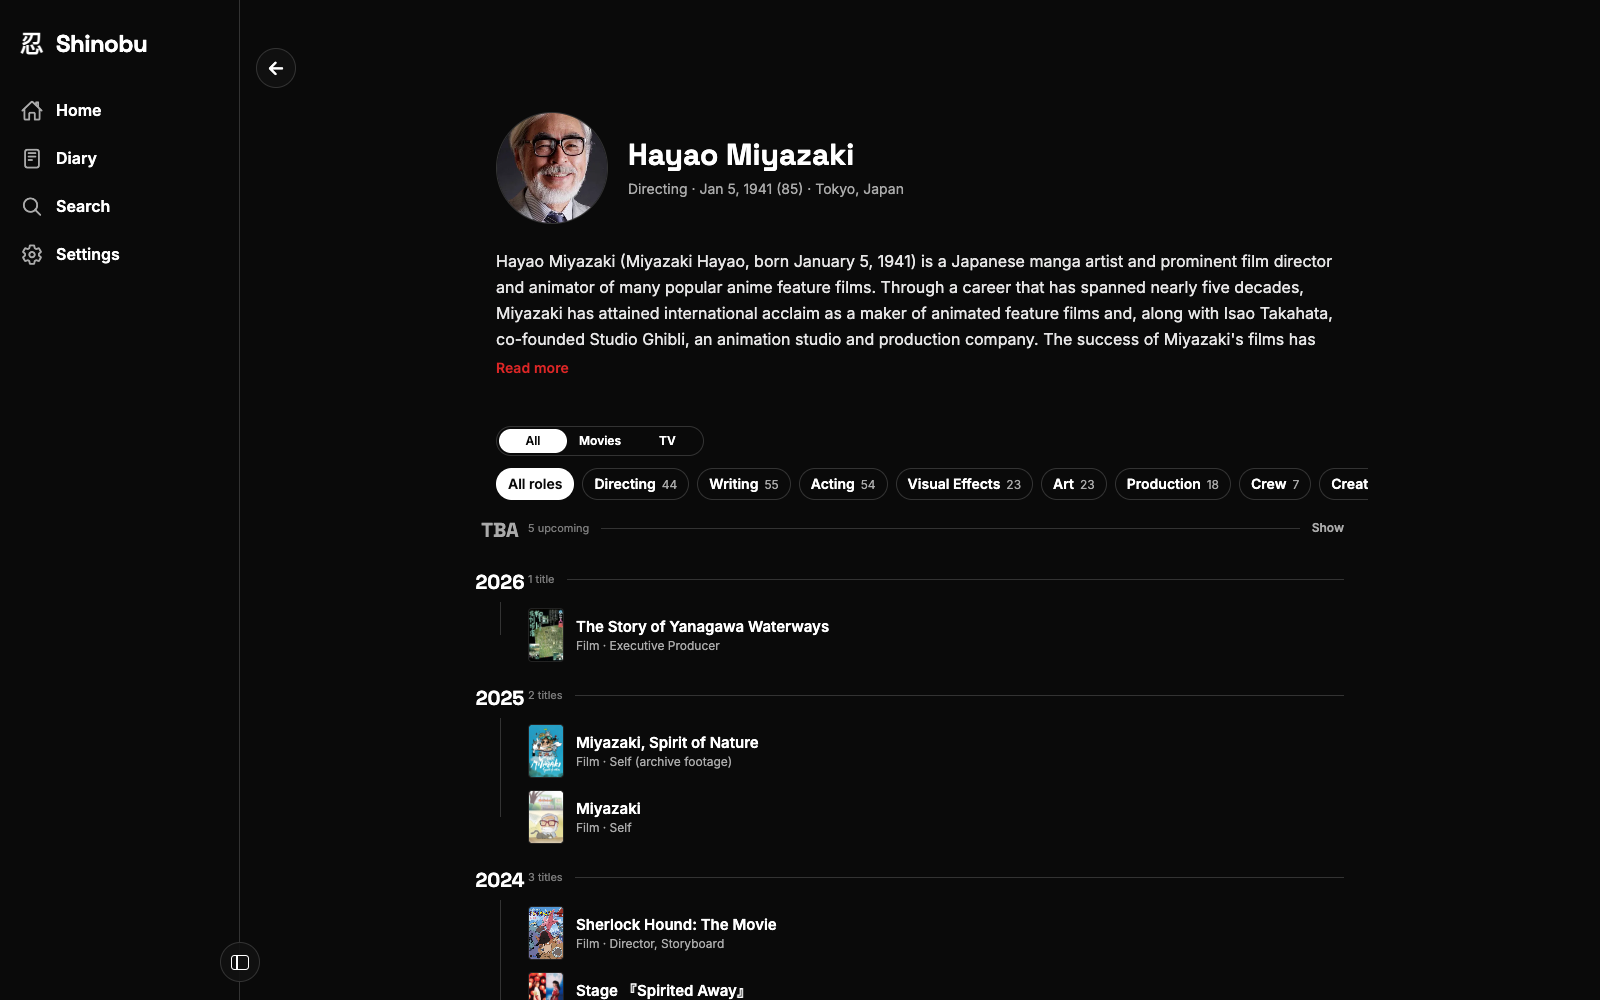
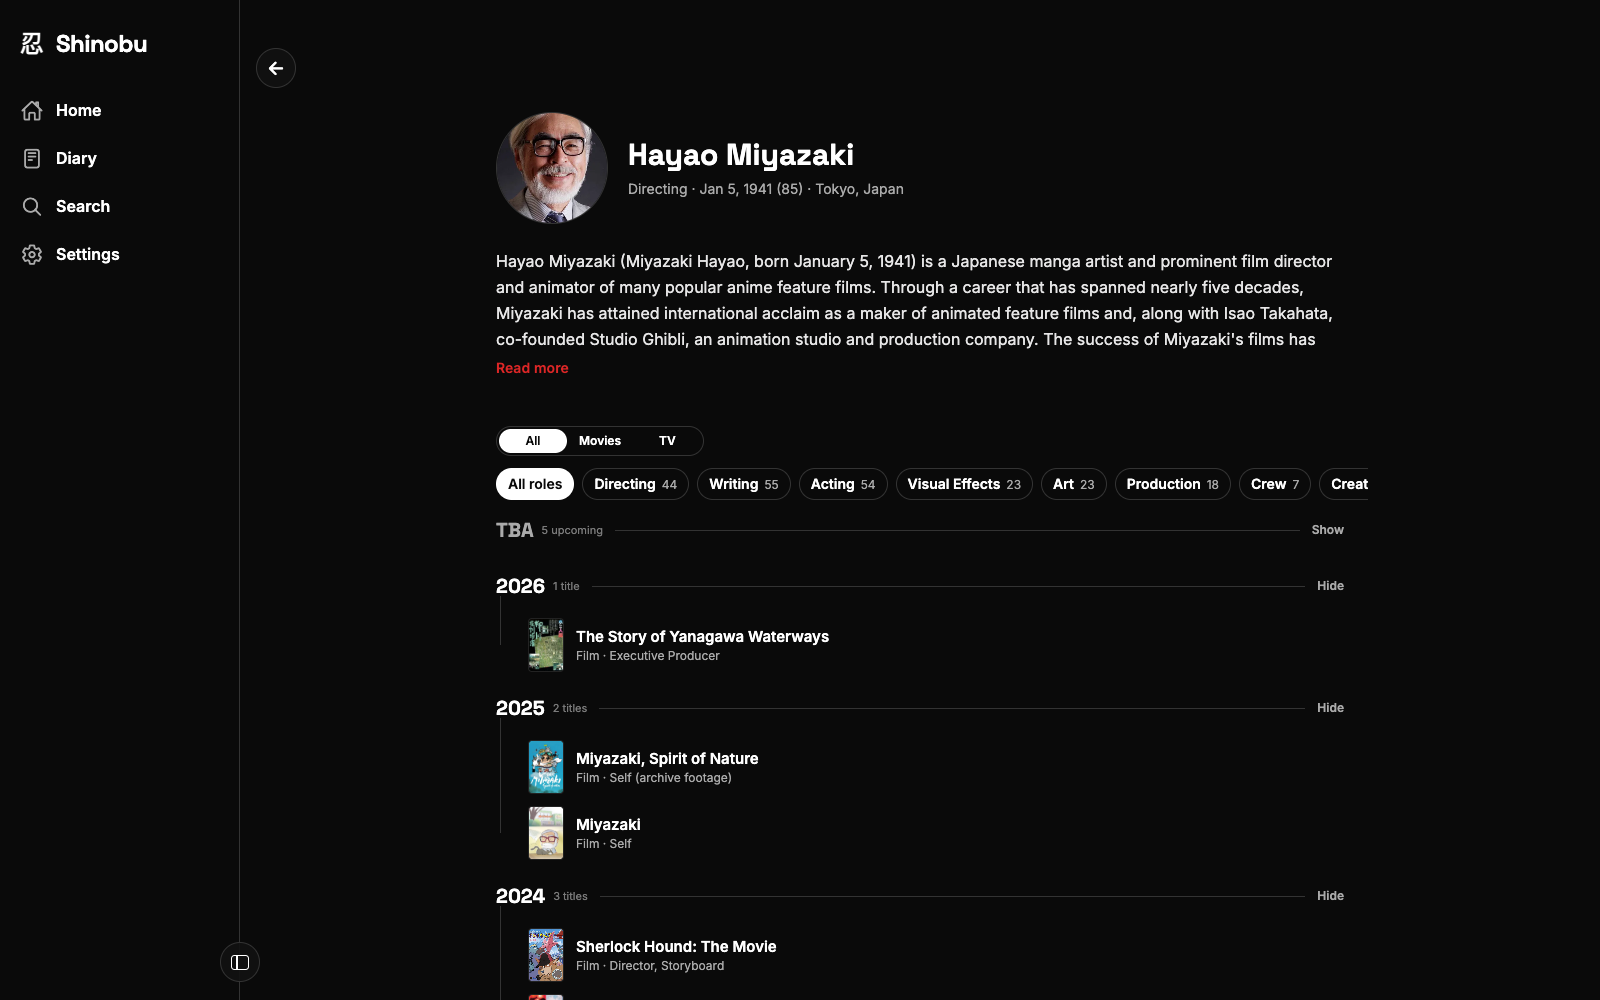
design: timeline heads share the page gutter and every year folds
Year heads sat in the rail column while the hero, pill and chips sat on
the 24px gutter, so nothing above a poster shared a left edge. Heads are
now one centred row on that gutter: year, count, hairline, Show/Hide.
Every head folds the way the upcoming one did; only upcoming starts
folded.

diff --git a/src/features/credit-timeline/credit-timeline.tsx b/src/features/credit-timeline/credit-timeline.tsx
@@ -20,6 +20,7 @@ import type { NormalizedMediaItem } from '@/types/media';
 import {
   roleCounts,
   timelineRows,
+  UPCOMING_HEAD,
   type Credit,
   type Filmography,
   type FormatFilter,
@@ -27,9 +28,9 @@ import {
 
 /**
  * The diary's rail, verbatim: a fixed gutter every row shares with one
- * hairline down it, the year sitting *in* the gutter at the top of its run the
- * way the diary's date does. Two surfaces that list titles down a rail should
- * not have two rails.
+ * hairline down it. Two surfaces that list titles down a rail should not
+ * have two rails. Heads sit on the page gutter (`px-6`) with the hero and
+ * the controls, so every left edge above a poster is the same edge.
  */
 const RAIL_W = 'w-14';
 const RAIL_LINE = 'left-7';
@@ -37,8 +38,10 @@ const RAIL_LINE = 'left-7';
 const ROW_BODY = 'flex-1 py-1.5 pr-6';
 const POSTER = 'w-9 h-[54px] rounded';
 const ROW_HEIGHT = 66;
-/** A `text-xl leading-none` numeral under `pt-5` ends at 40px; the rail resumes there. */
-const HEAD_LINE_TOP = 'top-10';
+/** The head row is `pt-5` + a 20px `text-xl leading-none` year + `pb-4`. */
+const HEAD = 'flex-row items-center px-6 pt-5 pb-4 relative';
+/** The rail resumes under the year, from 40px down. */
+const HEAD_LINE = cn('absolute w-px bg-border top-10 bottom-0', RAIL_LINE);
 
 /** "All" first, as on the seasons explorer — it is the shape the page opens in. */
 const FORMAT_OPTIONS = [
@@ -126,11 +129,10 @@ function RoleChip({
 }
 
 /**
- * A run's head: the year in the gutter, its title count and a hairline
- * reaching right. The upcoming head is the one with a control — the whole row
- * toggles the fold, with Show/Hide where the diary's chevron sits — and it is
- * muted throughout: unreleased work is a footnote to a filmography, not its
- * headline.
+ * A run's head: the year, its title count, a hairline reaching right and
+ * Show/Hide where the diary's chevron sits; the whole row toggles the fold.
+ * The upcoming head is muted throughout: unreleased work is a footnote to a
+ * filmography, not its headline.
  */
 function TimelineHead({
   year,
@@ -144,46 +146,28 @@ function TimelineHead({
   onToggle: () => void;
 }) {
   const upcoming = year == null;
-  const body = (
-    <>
-      <View className={cn(RAIL_W, 'items-center relative')}>
-        <Text
-          className={cn(
-            'font-display text-xl leading-none',
-            upcoming ? 'text-muted' : 'text-foreground',
-          )}
-        >
-          {upcoming ? 'TBA' : year}
-        </Text>
-        {open && (
-          <View className={cn('absolute w-px bg-border bottom-0', HEAD_LINE_TOP, RAIL_LINE)} />
-        )}
-      </View>
-      <View className="flex-1 flex-row items-center pr-6 pb-4">
-        <Text className="text-muted/70 font-sans text-[11px] mr-3">
-          {count} {upcoming ? 'upcoming' : count === 1 ? 'title' : 'titles'}
-        </Text>
-        <View className="flex-1 h-px bg-border" />
-        {upcoming && (
-          <Text className="text-muted font-sans-semibold text-xs ml-3">
-            {open ? 'Hide' : 'Show'}
-          </Text>
-        )}
-      </View>
-    </>
-  );
-
-  if (!upcoming) return <View className="flex-row pt-5">{body}</View>;
+  const label = `${count} ${upcoming ? 'upcoming' : count === 1 ? 'title' : 'titles'}`;
   return (
     <PresstableOpacity
-      accessibilityHint={open ? 'Hides upcoming titles' : 'Shows upcoming titles'}
-      accessibilityLabel={`${count} upcoming`}
+      accessibilityHint={open ? 'Hides these titles' : 'Shows these titles'}
+      accessibilityLabel={`${upcoming ? 'Upcoming' : year}, ${label}`}
       accessibilityRole="button"
       accessibilityState={{ expanded: open }}
-      className="flex-row pt-5"
+      className={HEAD}
       onPress={onToggle}
     >
-      {body}
+      <Text
+        className={cn(
+          'font-display text-xl leading-none',
+          upcoming ? 'text-muted' : 'text-foreground',
+        )}
+      >
+        {upcoming ? 'TBA' : year}
+      </Text>
+      <Text className="text-muted/70 font-sans text-[11px] ml-2 mr-3">{label}</Text>
+      <View className="flex-1 h-px bg-border" />
+      <Text className="text-muted font-sans-semibold text-xs ml-3">{open ? 'Hide' : 'Show'}</Text>
+      {open && <View className={HEAD_LINE} />}
     </PresstableOpacity>
   );
 }
@@ -283,13 +267,19 @@ export function CreditTimeline({
   const enter = usePageEnterStyle();
   const [format, setFormat] = useState<FormatFilter>('ALL');
   const [role, setRole] = useState<string | null>(null);
-  const [showUpcoming, setShowUpcoming] = useState(false);
+  // Only unreleased work starts folded.
+  const [folded, setFolded] = useState<ReadonlySet<string>>(() => new Set([UPCOMING_HEAD]));
+  const toggleFold = (key: string) => {
+    const next = new Set(folded);
+    if (!next.delete(key)) next.add(key);
+    setFolded(next);
+  };
 
   const counts = roleCounts(filmography, format);
   // A role the new format emptied falls back to every role, rather than
   // showing nothing under a chip that is no longer there.
   const activeRole = counts.some((entry) => entry.role === role) ? role : null;
-  const rows = timelineRows(filmography.credits, { format, role: activeRole, showUpcoming });
+  const rows = timelineRows(filmography.credits, { format, role: activeRole, folded });
 
   return (
     <View className="flex-1" style={enter}>
@@ -359,7 +349,7 @@ export function CreditTimeline({
             {row.kind === 'head' ? (
               <TimelineHead
                 count={row.count}
-                onToggle={() => setShowUpcoming(!showUpcoming)}
+                onToggle={() => toggleFold(row.key)}
                 open={row.open}
                 year={row.year}
               />
@@ -385,16 +375,12 @@ const SKELETON_RUNS = [2, 1, 3];
 
 function SkeletonHead() {
   return (
-    <View className="flex-row pt-5">
-      <View className={cn(RAIL_W, 'items-center relative')}>
-        {/* 20px tall: `font-display text-xl leading-none`. */}
-        <Skeleton className="w-10 h-5 rounded" />
-        <View className={cn('absolute w-px bg-border bottom-0', HEAD_LINE_TOP, RAIL_LINE)} />
-      </View>
-      <View className="flex-1 flex-row items-center pr-6 pb-4">
-        <Skeleton className="h-2.5 w-12 rounded mr-3" />
-        <View className="flex-1 h-px bg-border" />
-      </View>
+    <View className={HEAD}>
+      {/* 20px tall: `font-display text-xl leading-none`. */}
+      <Skeleton className="w-10 h-5 rounded" />
+      <Skeleton className="h-2.5 w-12 rounded ml-2 mr-3" />
+      <View className="flex-1 h-px bg-border" />
+      <View className={HEAD_LINE} />
     </View>
   );
 }

diff --git a/src/features/credit-timeline/group.ts b/src/features/credit-timeline/group.ts
@@ -66,9 +66,12 @@ export function roleCounts(
     .map((role) => ({ role, count: counts.get(role)! }));
 }
 
+export const UPCOMING_HEAD = 'head-upcoming';
+
 export type TimelineRow =
   | {
       kind: 'head';
+      /** `UPCOMING_HEAD`, or `head-<year>`; the fold state is keyed by it. */
       key: string;
       /** Null is the upcoming stop. */
       year: number | null;
@@ -96,8 +99,8 @@ function roleText(credit: Credit, role: string | null): string {
 /**
  * The flat row stream the list virtualizes: a head per release year, newest
  * first, with the year's titles hanging under it; unreleased and undated
- * work sits under one upcoming head at the top, soonest first, and stays
- * folded until asked for.
+ * work sits under one upcoming head at the top, soonest first. A head in
+ * `folded` keeps its entries out of the stream.
  *
  * `filmReleaseStatus` reads a title's date and year only, which is exactly
  * what a TMDB credit carries — a series with neither is an unannounced one.
@@ -108,11 +111,12 @@ export function timelineRows(
     format: FormatFilter;
     /** Null shows every role. */
     role: string | null;
-    showUpcoming: boolean;
+    /** Head keys whose entries are hidden. */
+    folded: ReadonlySet<string>;
     now?: Date;
   },
 ): TimelineRow[] {
-  const { format, role, showUpcoming, now = new Date() } = options;
+  const { format, role, folded, now = new Date() } = options;
   const upcoming: Credit[] = [];
   const released: Credit[] = [];
   for (const credit of credits) {
@@ -129,7 +133,10 @@ export function timelineRows(
   );
 
   const rows: TimelineRow[] = [];
-  const pushEntries = (group: readonly Credit[]) => {
+  const pushGroup = (key: string, year: number | null, group: readonly Credit[]) => {
+    const open = !folded.has(key);
+    rows.push({ kind: 'head', key, year, count: group.length, open });
+    if (!open) return;
     group.forEach((credit, index) =>
       rows.push({
         kind: 'entry',
@@ -141,16 +148,7 @@ export function timelineRows(
     );
   };
 
-  if (upcoming.length > 0) {
-    rows.push({
-      kind: 'head',
-      key: 'head-upcoming',
-      year: null,
-      count: upcoming.length,
-      open: showUpcoming,
-    });
-    if (showUpcoming) pushEntries(upcoming);
-  }
+  if (upcoming.length > 0) pushGroup(UPCOMING_HEAD, null, upcoming);
 
   // Insertion order is the sorted order, so the map is the year sequence.
   const byYear = new Map<number, Credit[]>();
@@ -160,9 +158,6 @@ export function timelineRows(
     if (group == null) byYear.set(year, [credit]);
     else group.push(credit);
   }
-  for (const [year, group] of byYear) {
-    rows.push({ kind: 'head', key: `head-${year}`, year, count: group.length, open: true });
-    pushEntries(group);
-  }
+  for (const [year, group] of byYear) pushGroup(`head-${year}`, year, group);
   return rows;
 }

diff --git a/src/features/credit-timeline/group.test.ts b/src/features/credit-timeline/group.test.ts
@@ -2,7 +2,7 @@ import { describe, expect, test } from 'bun:test';
 
 import type { NormalizedMediaItem, PersonCreditRow } from '@/types/media';
 
-import { mergeCreditRows, roleCounts, timelineRows } from './group';
+import { mergeCreditRows, roleCounts, timelineRows, UPCOMING_HEAD } from './group';
 
 // Local noon: `filmReleaseStatus` parses a bare date as local midnight.
 const NOW = new Date(2026, 8, 15, 12, 0, 0);
@@ -79,11 +79,11 @@ describe('roleCounts', () => {
 describe('timelineRows', () => {
   const { credits } = mergeCreditRows(rows);
 
-  test('leads with a folded upcoming head, then one head per year, newest first', () => {
+  test('leads with the upcoming head, then one head per year, newest first; folded heads keep their entries', () => {
     const result = timelineRows(credits, {
       format: 'ALL',
       role: null,
-      showUpcoming: false,
+      folded: new Set([UPCOMING_HEAD, 'head-2013']),
       now: NOW,
     });
     expect(
@@ -92,8 +92,7 @@ describe('timelineRows', () => {
       [null, 2, false],
       [2023, 1, true],
       'm1',
-      [2013, 1, true],
-      'm2',
+      [2013, 1, false],
       [1984, 1, true],
       't1',
     ]);
@@ -103,7 +102,7 @@ describe('timelineRows', () => {
     const result = timelineRows(credits, {
       format: 'ALL',
       role: null,
-      showUpcoming: true,
+      folded: new Set(),
       now: NOW,
     });
     expect(result.slice(0, 3).map((row) => (row.kind === 'entry' ? [row.key, row.last] : row.open)))
@@ -111,14 +110,14 @@ describe('timelineRows', () => {
   });
 
   test('joins every role on a credit, or only the filtered one', () => {
-    const all = timelineRows(credits, { format: 'ALL', role: null, showUpcoming: false, now: NOW });
+    const all = timelineRows(credits, { format: 'ALL', role: null, folded: new Set(), now: NOW });
     const heronRow = all.find((row) => row.kind === 'entry' && row.key === 'm1');
     expect(heronRow?.kind === 'entry' && heronRow.roles).toBe('Director, Writer, Original Story');
 
     const writing = timelineRows(credits, {
       format: 'MOVIE',
       role: 'Writing',
-      showUpcoming: false,
+      folded: new Set([UPCOMING_HEAD]),
       now: NOW,
     });
     expect(writing.map((row) => row.key)).toEqual(['head-upcoming', 'head-2023', 'm1']);
